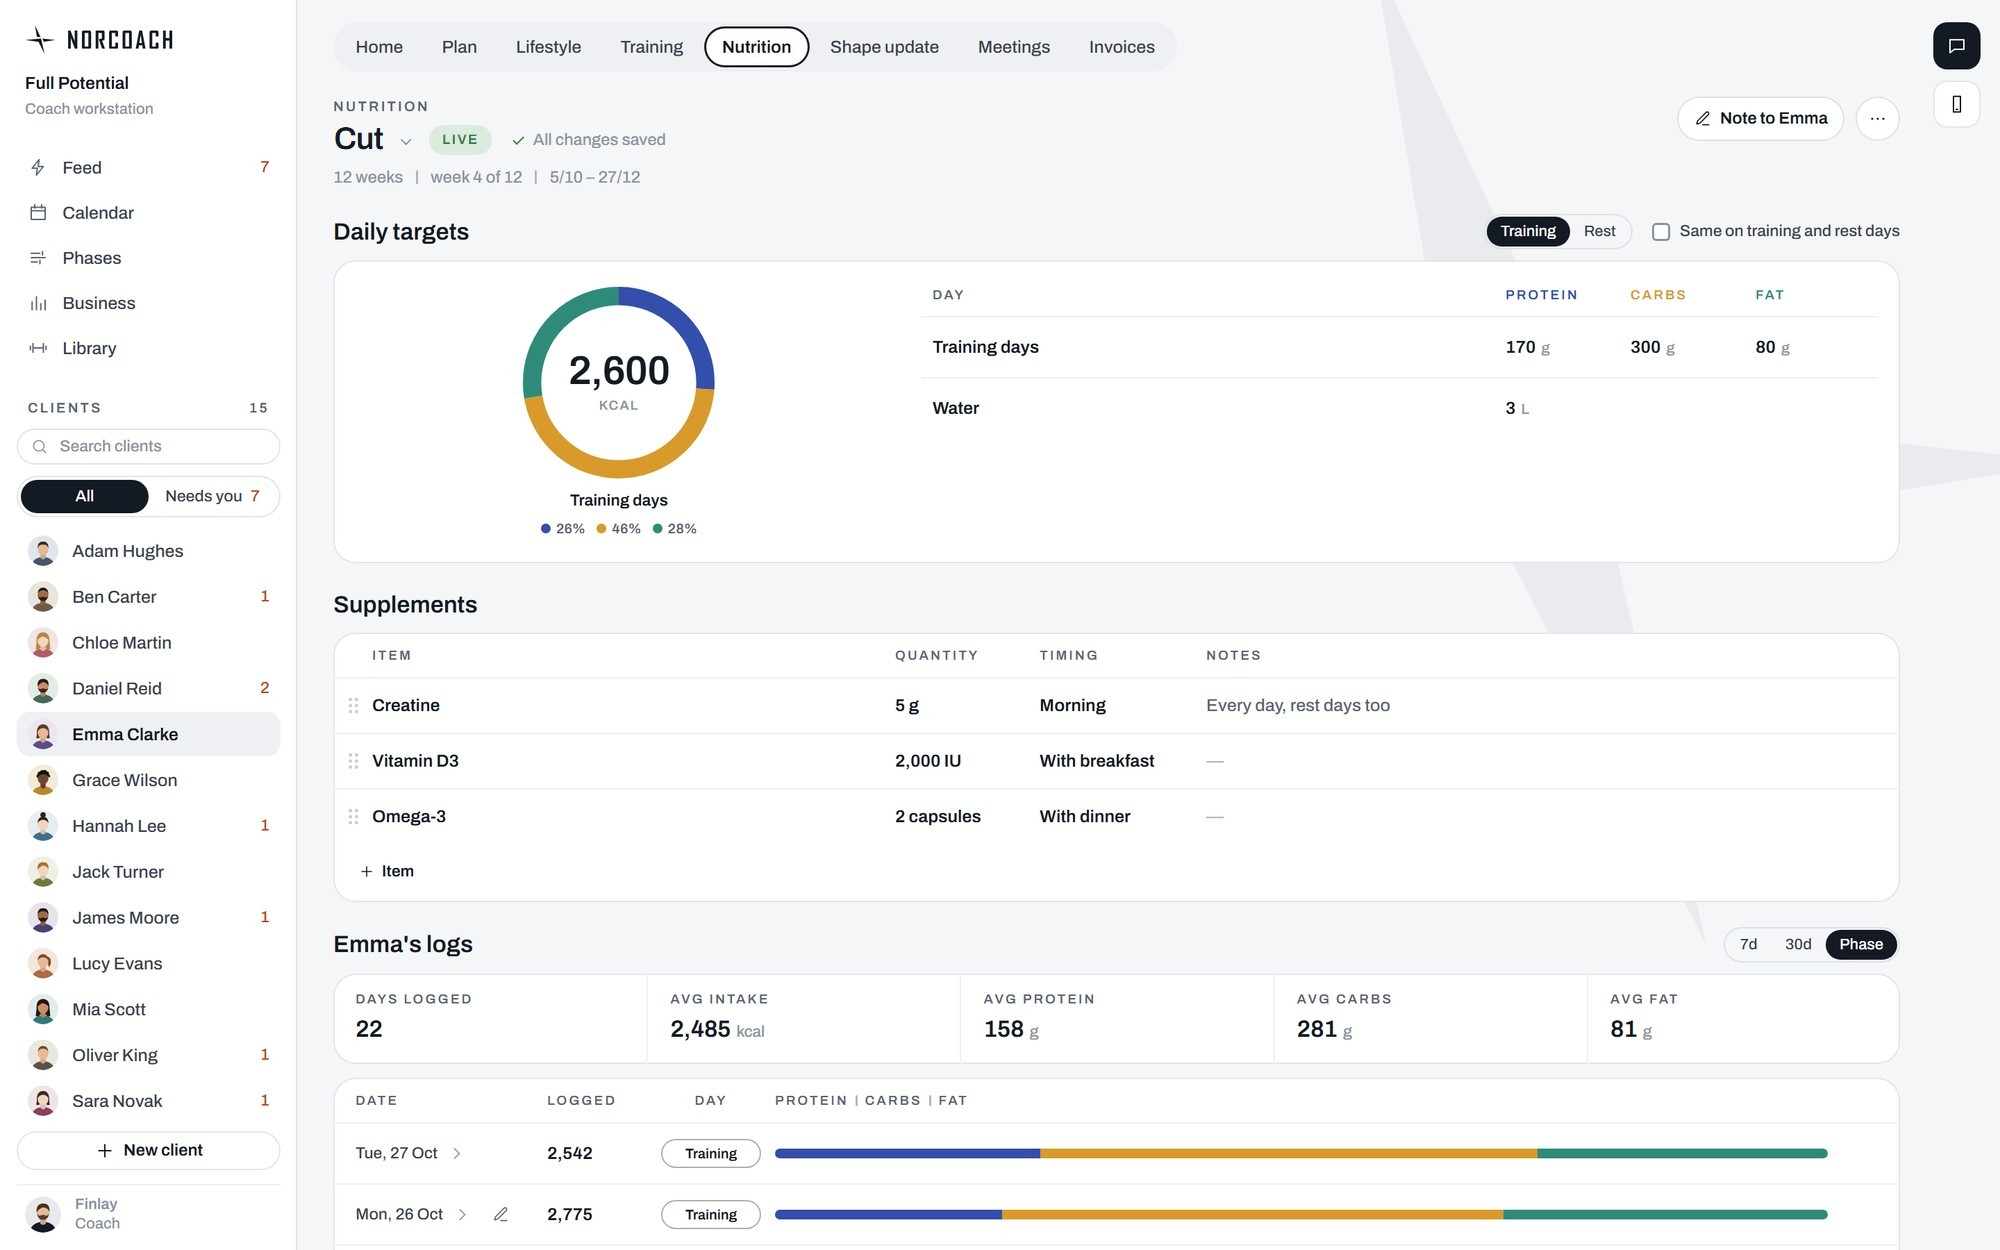
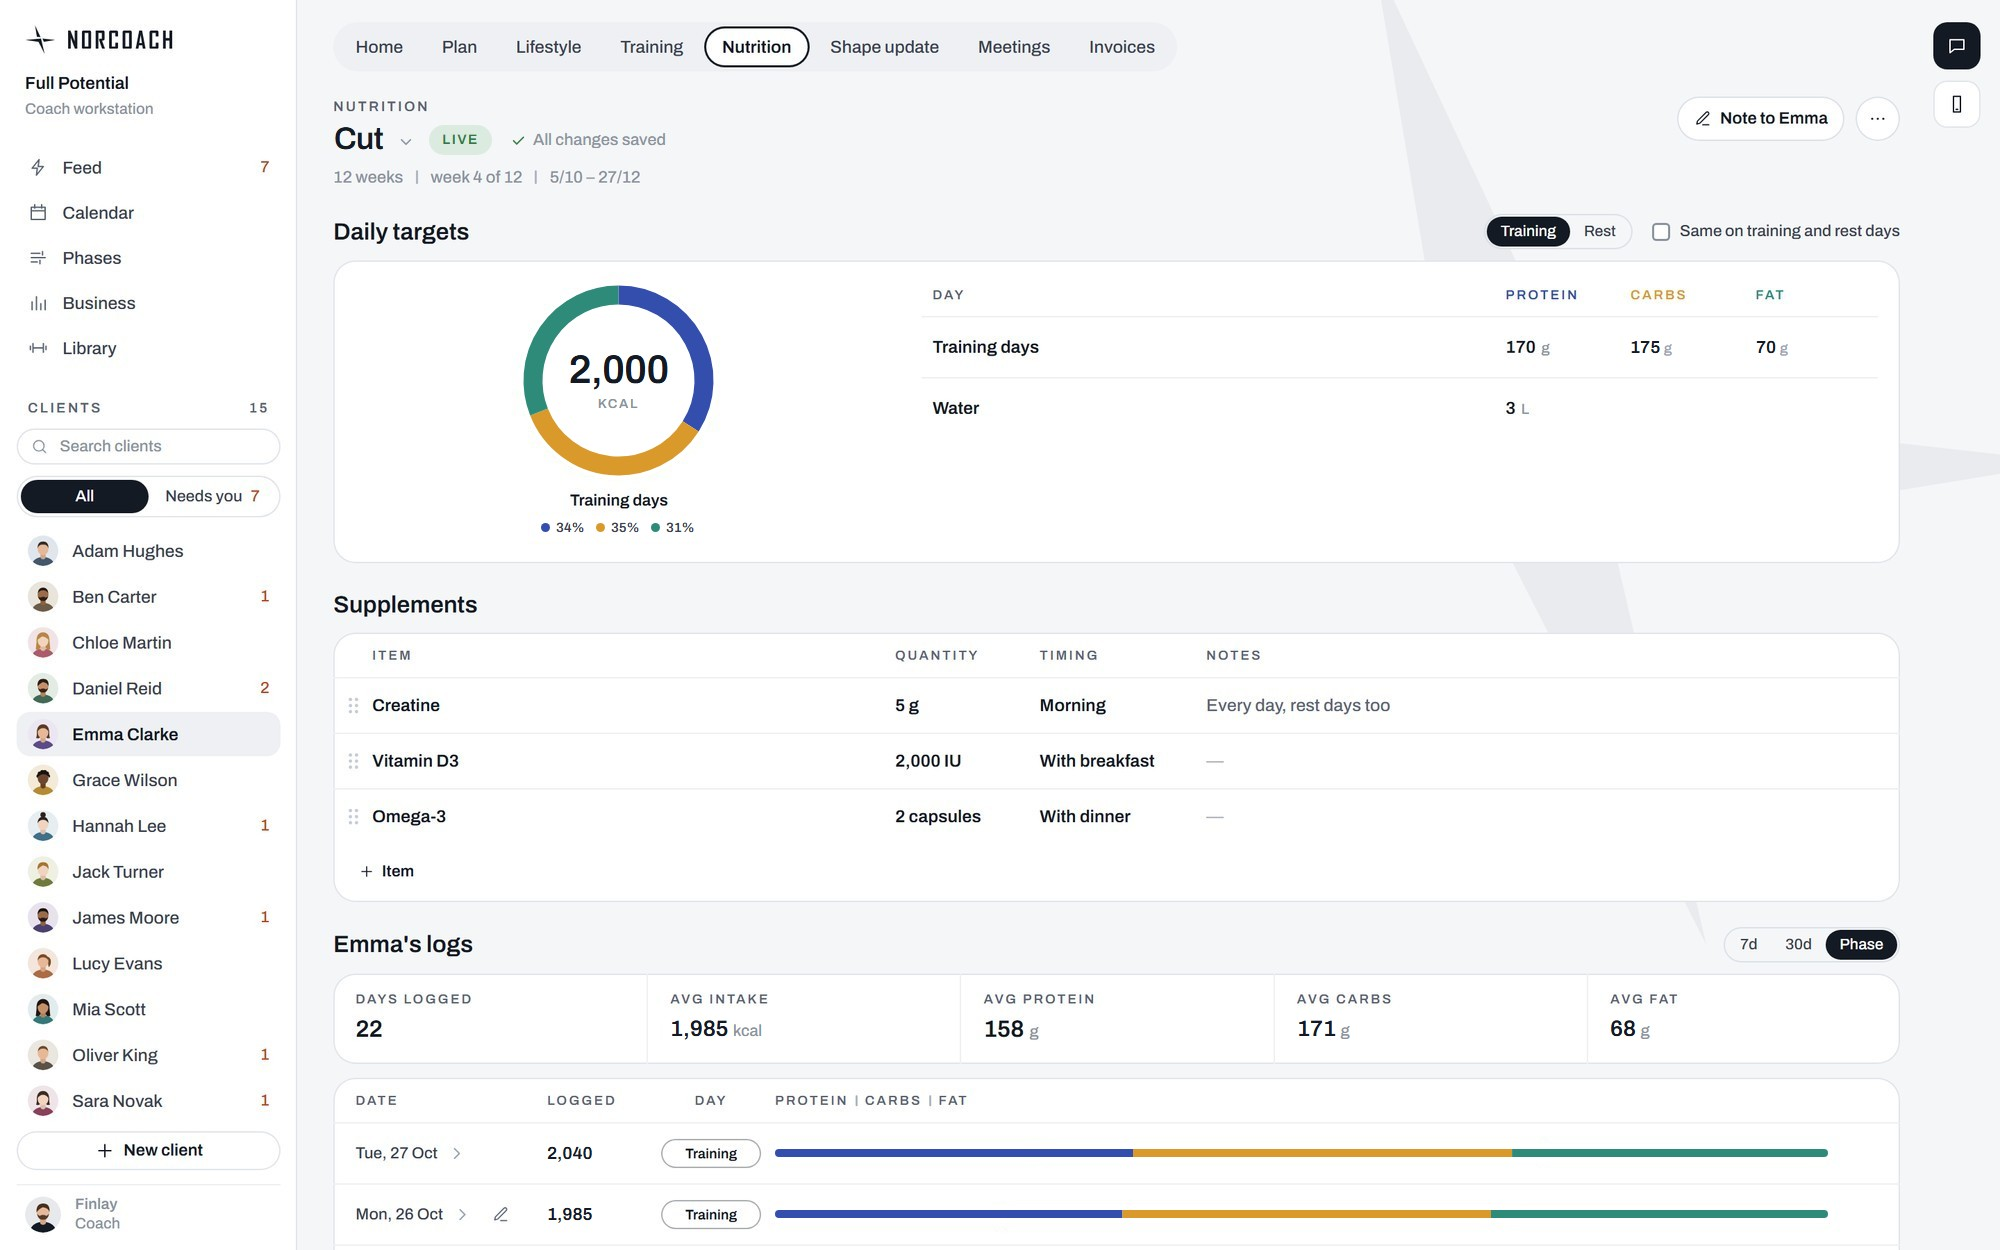
Website: Emma's Cut has a cut's numbers (21 Nov, Alex: "the nutrition phase says we are on a cut, and the carbs are at 300"; kept the Cut), and the Nutrition track says plainly what each side does.
Training-day targets 2,000 kcal, P 170 | C 175 | F 70 (34% | 35% | 31%) everywhere: the laptop's Nutrition tab (ring, table, averages 1,985 kcal | 171 g | 68 g, days 2,040 and 1,985 with their bars), its Home tile, the phone's Nutrition rings and the No AI targets card (scripts/website-a/patch-cut.cjs draws them; patch-coach.cjs the tile; the pictures before kept in snaps-before-cut; their links carry ?v=cut so browsers fetch them again). On your laptop: "Set each client's calories, macros and supplements, and review the meals they log." On their phone: "Their targets shown as rings. They browse the food library, build meals and send them to you to review."

diff --git a/website/index.html b/website/index.html
@@ -60,7 +60,7 @@
     <div class="devices">
       <div class="devices-in">
         <div class="laptop">
-          <div class="lid"><div class="screen"><img src="img/snaps/coach-home.jpg" width="2000" height="1250" draggable="false" alt="Norcoach on the coach’s laptop: a client’s Home, with their lifestyle, training and nutrition phases, muscle balance, strength and weight." fetchpriority="high"></div></div>
+          <div class="lid"><div class="screen"><img src="img/snaps/coach-home.jpg?v=cut" width="2000" height="1250" draggable="false" alt="Norcoach on the coach’s laptop: a client’s Home, with their lifestyle, training and nutrition phases, muscle balance, strength and weight." fetchpriority="high"></div></div>
           <div class="base"></div>
         </div>
         <div class="phone"><div class="screen"><img src="img/snaps/phone-home.jpg" width="780" height="1688" draggable="false" alt="Norcoach on the client’s phone: their Home, with today’s check-in, their training phase and the latest from their coach." fetchpriority="high"></div></div>
@@ -158,14 +158,14 @@
             <div class="lid"><div class="screen stack">
               <img src="img/snaps/coach-lifestyle.jpg" width="2000" height="1250" loading="lazy" decoding="async" draggable="false" aria-hidden="true" alt="The coach’s Lifestyle tab: the metrics this client checks in on each day, and their check-ins as graphs.">
               <img class="on" src="img/snaps/coach-training.jpg" width="2000" height="1250" loading="lazy" decoding="async" draggable="false" alt="The coach’s Training tab: week 4 of a strength programme, each set the client logged beside the coach’s target.">
-              <img src="img/snaps/coach-nutrition.jpg" width="2000" height="1250" loading="lazy" decoding="async" draggable="false" aria-hidden="true" alt="The coach’s Nutrition tab: calories and macros for training days, supplements, and what the client logged.">
+              <img src="img/snaps/coach-nutrition.jpg?v=cut" width="2000" height="1250" loading="lazy" decoding="async" draggable="false" aria-hidden="true" alt="The coach’s Nutrition tab: calories and macros for training days, supplements, and what the client logged.">
             </div></div>
             <div class="base"></div>
           </div>
           <div class="phone"><div class="screen stack">
             <img src="img/snaps/phone-lifestyle.jpg" width="780" height="1688" loading="lazy" decoding="async" draggable="false" aria-hidden="true" alt="The client’s check-in on their phone: their weight on a graph, on its way to the goal their coach set.">
             <img class="on" src="img/snaps/phone-training.jpg" width="780" height="1688" loading="lazy" decoding="async" draggable="false" alt="A workout on the client’s phone: the exercise, the coach’s note with his face, the target, and the set being logged.">
-            <img src="img/snaps/phone-nutrition.jpg" width="780" height="1688" loading="lazy" decoding="async" draggable="false" aria-hidden="true" alt="The client’s Nutrition screen on their phone: the day’s targets as a ring, their supplements and their coach’s note.">
+            <img src="img/snaps/phone-nutrition.jpg?v=cut" width="780" height="1688" loading="lazy" decoding="async" draggable="false" aria-hidden="true" alt="The client’s Nutrition screen on their phone: the day’s targets as a ring, their supplements and their coach’s note.">
           </div></div>
         </div>
       </div>
@@ -197,8 +197,8 @@
             <p class="tt-line">Targets and a food diary, so you see what they really eat.</p>
             <a class="text-link tt-more" href="nutrition.html">More on nutrition <svg viewBox="0 0 24 24" aria-hidden="true"><path fill="none" stroke="currentColor" stroke-width="1.6" stroke-linecap="round" stroke-linejoin="round" d="M5 12h14M13 6l6 6-6 6"/></svg></a>
           </div>
-          <div class="tt-col"><p class="tt-label">On your laptop</p><p>Calories, macros and supplements, so they eat more when they train.</p></div>
-          <div class="tt-col"><p class="tt-label">On their phone</p><p>The day’s targets as a ring, so they see what’s left.</p></div>
+          <div class="tt-col"><p class="tt-label">On your laptop</p><p>Set each client’s calories, macros and supplements, and review the meals they log.</p></div>
+          <div class="tt-col"><p class="tt-label">On their phone</p><p>Their targets shown as rings. They browse the food library, build meals and send them to you to review.</p></div>
         </div>
       </div>
     </div>
@@ -252,11 +252,11 @@
         <div class="cardz reveal" style="--d:.18s">
           <p class="cardz-head">New targets</p>
           <div class="cz-macros">
-            <div class="cz-ring"><svg viewBox="0 0 120 120"><g fill="none" stroke-width="5" stroke-linecap="round"><circle cx="60" cy="60" r="54" stroke="#e3f1ef"/><circle cx="60" cy="60" r="54" stroke="#334eac" stroke-dasharray="88.2 339.3" transform="rotate(-90 60 60)"/><circle cx="60" cy="60" r="46" stroke="#e3f1ef"/><circle cx="60" cy="60" r="46" stroke="#d99a2b" stroke-dasharray="133.0 289.0" transform="rotate(-90 60 60)"/><circle cx="60" cy="60" r="38" stroke="#e3f1ef"/><circle cx="60" cy="60" r="38" stroke="#2e8b7a" stroke-dasharray="66.9 238.8" transform="rotate(-90 60 60)"/></g></svg><b>2,600</b><span>kcal</span></div>
+            <div class="cz-ring"><svg viewBox="0 0 120 120"><g fill="none" stroke-width="5" stroke-linecap="round"><circle cx="60" cy="60" r="54" stroke="#e3f1ef"/><circle cx="60" cy="60" r="54" stroke="#334eac" stroke-dasharray="115.4 339.3" transform="rotate(-90 60 60)"/><circle cx="60" cy="60" r="46" stroke="#e3f1ef"/><circle cx="60" cy="60" r="46" stroke="#d99a2b" stroke-dasharray="101.2 289.0" transform="rotate(-90 60 60)"/><circle cx="60" cy="60" r="38" stroke="#e3f1ef"/><circle cx="60" cy="60" r="38" stroke="#2e8b7a" stroke-dasharray="74.0 238.8" transform="rotate(-90 60 60)"/></g></svg><b>2,000</b><span>kcal</span></div>
             <ul>
-              <li style="--m:#334eac"><b>170<small>g</small></b><span>Protein<i class="sep"></i><em>26%</em></span></li>
-              <li style="--m:#d99a2b"><b>300<small>g</small></b><span>Carbs<i class="sep"></i><em>46%</em></span></li>
-              <li style="--m:#2e8b7a"><b>80<small>g</small></b><span>Fat<i class="sep"></i><em>28%</em></span></li>
+              <li style="--m:#334eac"><b>170<small>g</small></b><span>Protein<i class="sep"></i><em>34%</em></span></li>
+              <li style="--m:#d99a2b"><b>175<small>g</small></b><span>Carbs<i class="sep"></i><em>35%</em></span></li>
+              <li style="--m:#2e8b7a"><b>70<small>g</small></b><span>Fat<i class="sep"></i><em>31%</em></span></li>
             </ul>
           </div>
           <div class="cz-says"><span class="cz-face" aria-hidden="true"></span><div><small>Finlay<span>5 Oct</span></small><p>Protein high on training days, and don’t skip the carbs before you lift.</p></div></div>

diff --git a/website/nutrition.html b/website/nutrition.html
@@ -60,10 +60,10 @@
     <div class="devices">
       <div class="devices-in">
         <div class="laptop">
-          <div class="lid"><div class="screen"><img src="img/snaps/coach-nutrition.jpg" width="2000" height="1250" draggable="false" alt="The coach’s Nutrition tab: calories and macros for training days, supplements, and what the client logged." fetchpriority="high"></div></div>
+          <div class="lid"><div class="screen"><img src="img/snaps/coach-nutrition.jpg?v=cut" width="2000" height="1250" draggable="false" alt="The coach’s Nutrition tab: calories and macros for training days, supplements, and what the client logged." fetchpriority="high"></div></div>
           <div class="base"></div>
         </div>
-        <div class="phone"><div class="screen"><img src="img/snaps/phone-nutrition.jpg" width="780" height="1688" draggable="false" alt="The client’s Nutrition screen on their phone: the day’s targets as a ring, their supplements and their coach’s note." fetchpriority="high"></div></div>
+        <div class="phone"><div class="screen"><img src="img/snaps/phone-nutrition.jpg?v=cut" width="780" height="1688" draggable="false" alt="The client’s Nutrition screen on their phone: the day’s targets as a ring, their supplements and their coach’s note." fetchpriority="high"></div></div>
       </div>
     </div>
     </div>
